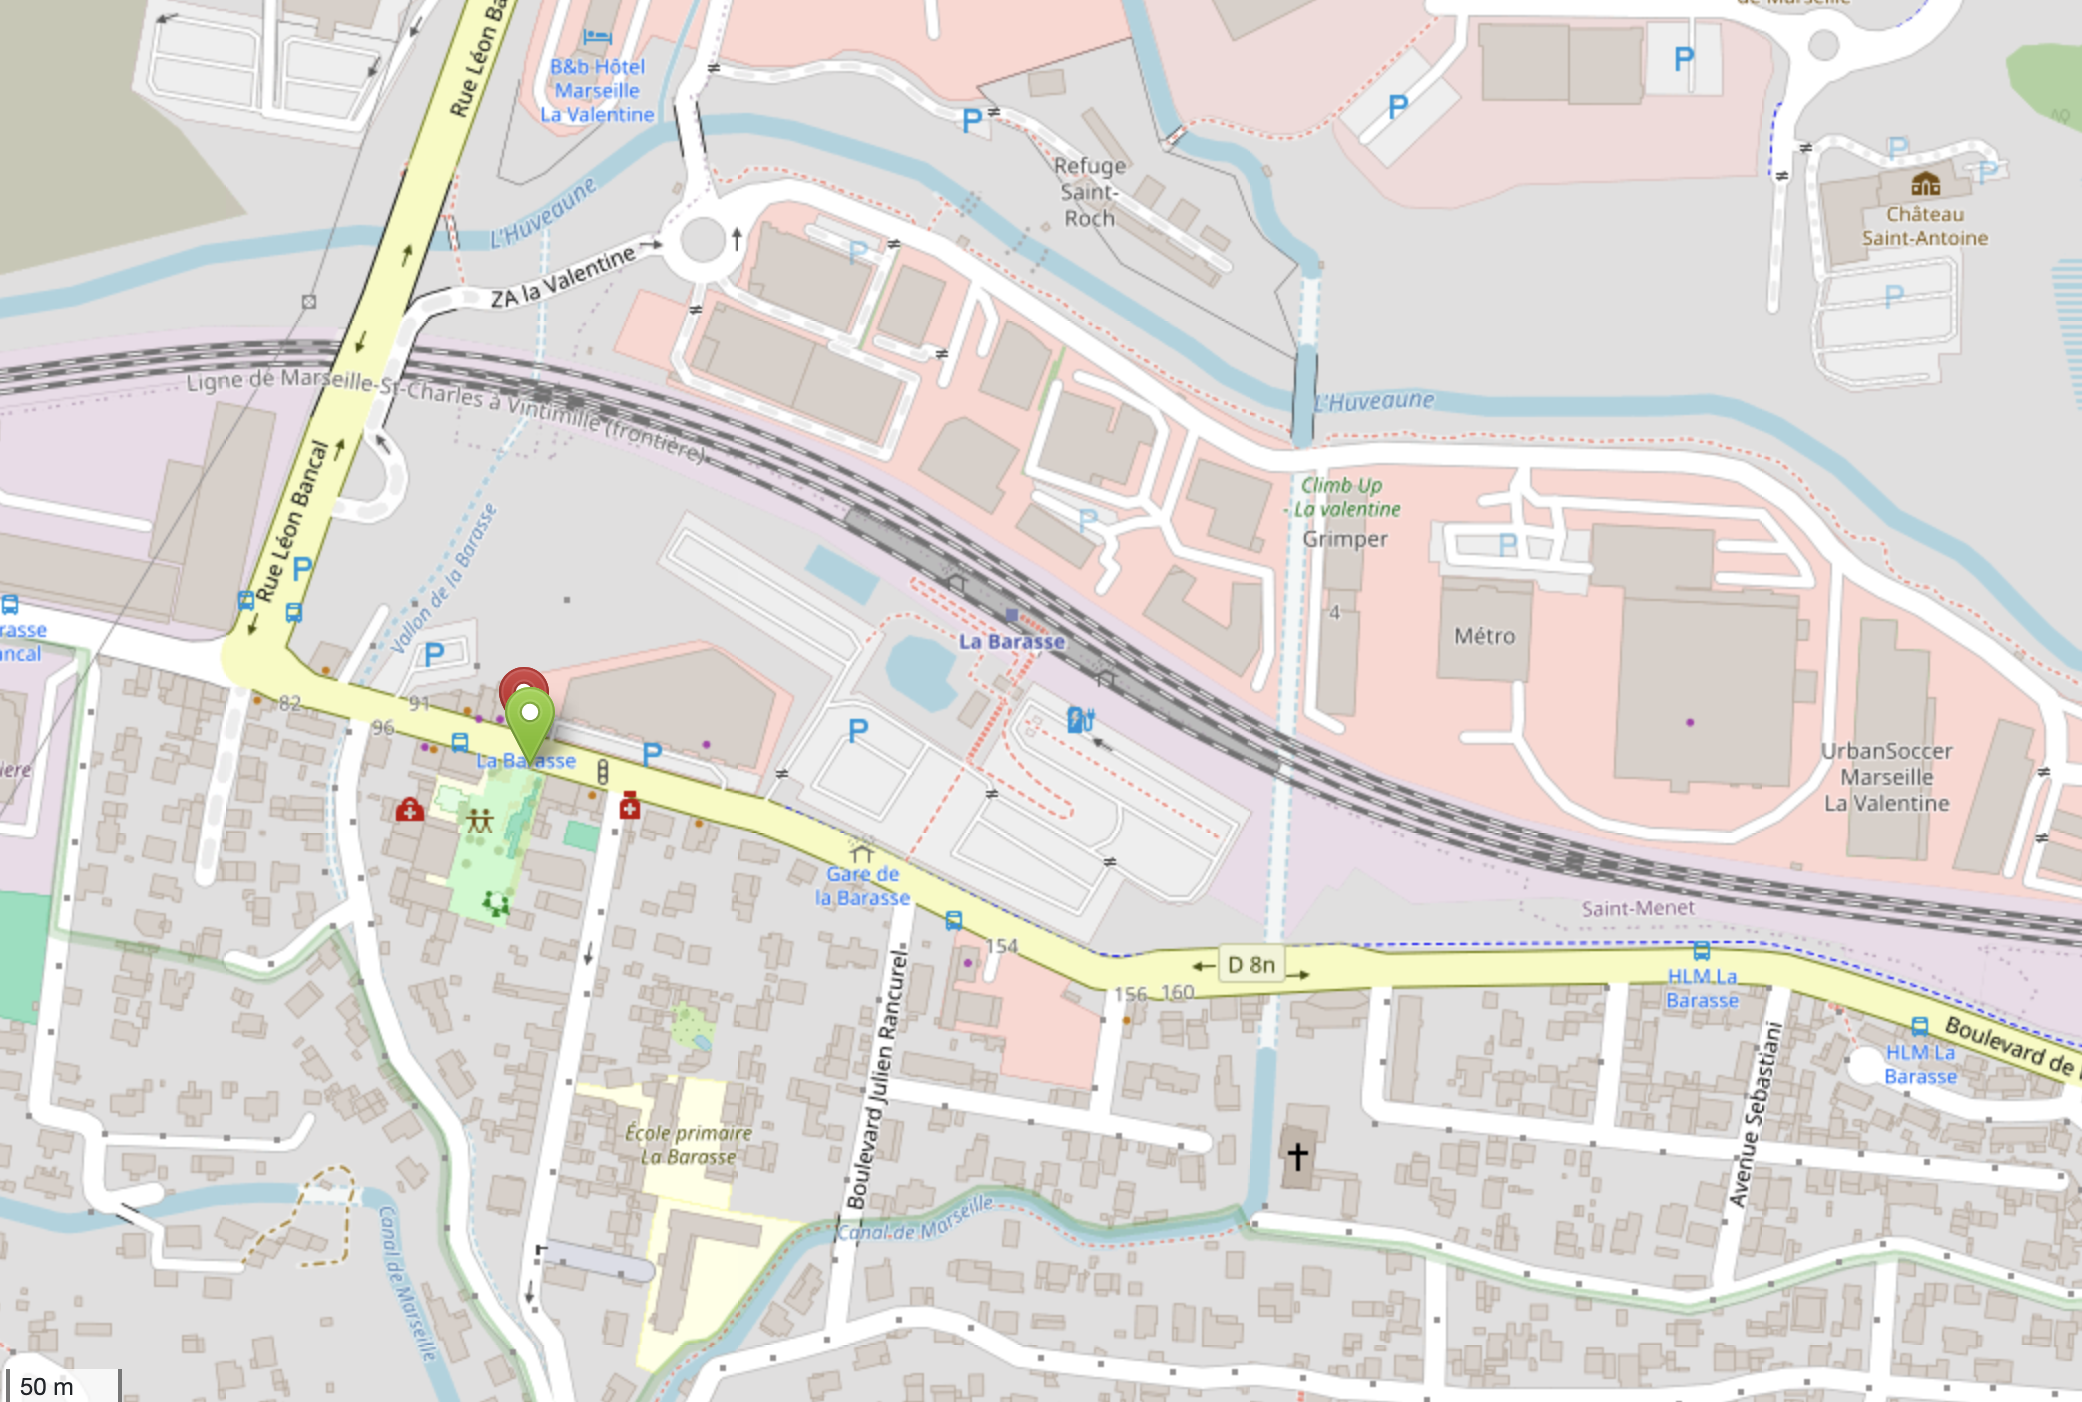
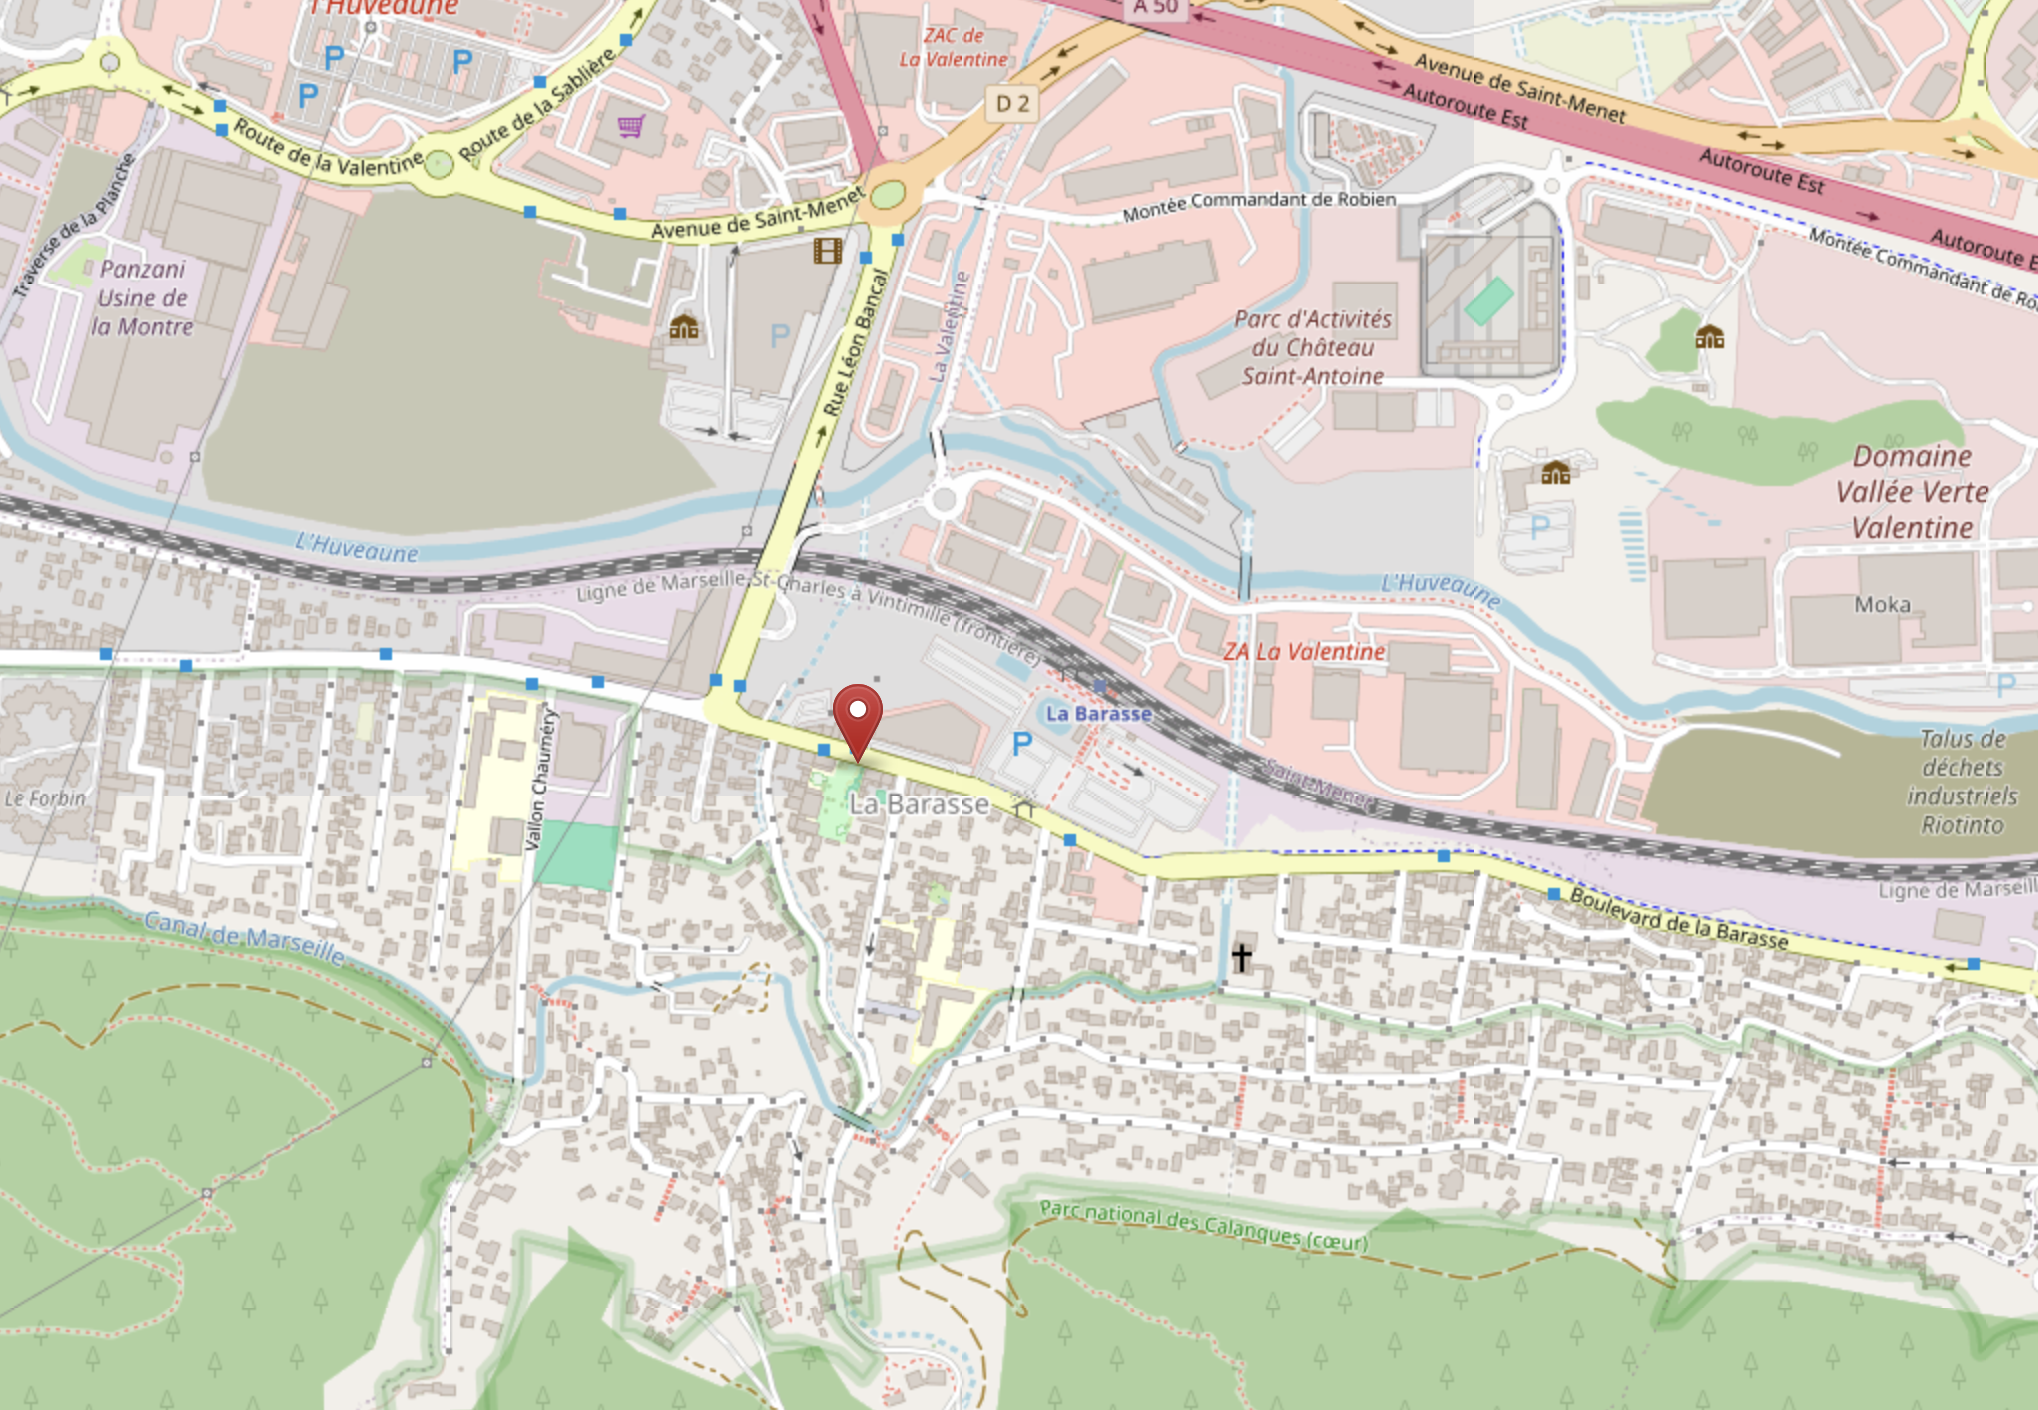
wip: updated site with metadata
- added google-site-verification
- added basic seo metadata
- still need to set a base_url variable properly

diff --git a/src/_includes/components/announcement.html b/src/_includes/components/announcement.html
@@ -1,0 +1,36 @@
+<section class="not-prose p-4 rounded-xl border border-emerald-200 bg-emerald-50 dark:border-emerald-800 dark:bg-emerald-950/40">
+    <header class="text-center">
+        <p class="flex items-center justify-center gap-2 text-emerald-700 dark:text-emerald-300">
+            <i class="fa-solid fa-seedling size-4 inline-block"></i>
+            <span class="text-sm font-semibold uppercase tracking-widest">Découvrez le Taï Chï</span>
+        </p>
+    </header>
+
+    <div class="mt-6 grid grid-cols-1 gap-4 sm:grid-cols-3">
+        {% for cour in collections.coursByDay %}
+            <a href="{{ cour.url }}"
+               class="group flex flex-col rounded-lg border border-emerald-200 bg-white p-4 no-underline shadow-sm transition hover:-translate-y-0.5 hover:border-emerald-400 hover:shadow-md dark:border-emerald-800 dark:bg-gray-800">
+                <span class="inline-flex w-fit items-center gap-1.5 rounded-full bg-emerald-100 px-3 py-1 text-sm font-semibold text-emerald-800 dark:bg-emerald-900 dark:text-emerald-200">
+                    <i class="fa-solid fa-calendar-day size-4 inline-block"></i>
+                    {{ cour.data.lesson.day }} · {{ cour.data.lesson.start_time }}
+                </span>
+                <span class="mt-3 text-lg font-bold text-gray-800 group-hover:text-emerald-700 dark:text-gray-100 dark:group-hover:text-emerald-300">{{ cour.data.short_title }}</span>
+                <span class="text-sm text-gray-500 dark:text-gray-400">{{ cour.data.address.city }} {{ cour.data.address.post_code }}</span>
+                <span class="mt-2 inline-flex items-center gap-1 text-sm font-medium text-emerald-700 dark:text-emerald-300">
+                    Voir le lieu <i class="fa-solid fa-arrow-right size-3 inline-block transition group-hover:translate-x-1"></i>
+                </span>
+            </a>
+        {% endfor %}
+    </div>
+
+    <div class="flex flex-col gap-2 pt-4">
+        <h5 class="text-md text-center font-semibold text-emerald-700 dark:text-emerald-300">
+            <i class="fa-solid fa-gift size-4 inline-block"></i> 1<sup>er</sup> cours d'essai gratuit
+        </h5>
+        <ul class="mx-auto flex flex-wrap justify-center gap-x-5 gap-y-2 border-t p-2 border-emerald-200 text-sm text-gray-700 dark:border-emerald-800 dark:text-gray-300">
+            <li class="flex items-center gap-1.5"><i class="fa-solid fa-clock size-4 inline-block"></i> Venez 5 à 10 min en avance</li>
+            <li class="flex items-center gap-1.5"><i class="fa-solid fa-shoe-prints size-4 inline-block"></i> Chaussures plates et propres</li>
+            <li class="flex items-center gap-1.5"><i class="fa-solid fa-shirt size-4 inline-block"></i> Tenue légère et décontractée</li>
+        </ul>
+    </div>
+</section>

diff --git a/src/index.md b/src/index.md
@@ -1,12 +1,14 @@
 ---
 title: Accueil | La Vague | Taï Chi Chuan
+description: "Association La Vague à Marseille : enseignement du Taï Chi Chuan, forme Yang de la famille Tung. Art martial interne, méditation en mouvement et gymnastique de santé."
 layout: "layouts/base.njk"
 hero_enabled: true
 #hero_title: "La Vague"
 #hero_subtitle: "Taï Chi Chuan"
 hero_image: "/public/gallery/TaiChi-10-1280.jpg"
 hero_color: "text-gray-800"
-reprise_enabled: true
+announcement_enabled: true
+reprise_enabled: false
 eleventyNavigation:
   key: Home
   title: Accueil
@@ -18,7 +20,6 @@ eleventyNavigation:
 
 La traduction littérale de Tai Chi Chuan est : boxe du faîte suprême.
 Le Tai Chi Chuan est classé dans la catégorie des Arts Martiaux Chinois Internes :
-
 
 
 **L’Apprentissage** débute par l’exécution de mouvements dans la lenteur. Apprendre à placer son corps (centre de gravité, flexion, coordination, concentration, écoute et regard).

diff --git a/src/lassociation.md b/src/lassociation.md
@@ -1,5 +1,6 @@
 ---
 title: L'Association | La Vague | Taï Chi Chuan
+description: "L'association loi 1901 « La Vague », fondée à Marseille en 1998 : neuf cours de Taï Chi Chuan par semaine et une centaine d'adhérents."
 layout: "layouts/base.njk"
 hero_enabled: true
 hero_image: "/public/gallery/TaiChi-233-1280.jpg"

diff --git a/src/lenseignant.md b/src/lenseignant.md
@@ -1,5 +1,6 @@
 ---
 title: L'Enseignement | La Vague | Taï Chi Chuan
+description: "Pierre Navarino, enseignant de Taï Chi Chuan diplômé BPAMCI, formé auprès de Michèle Roldes et des maîtres Tung. Association La Vague à Marseille."
 layout: "layouts/base.njk"
 eleventyNavigation:
   key: ensegnant
